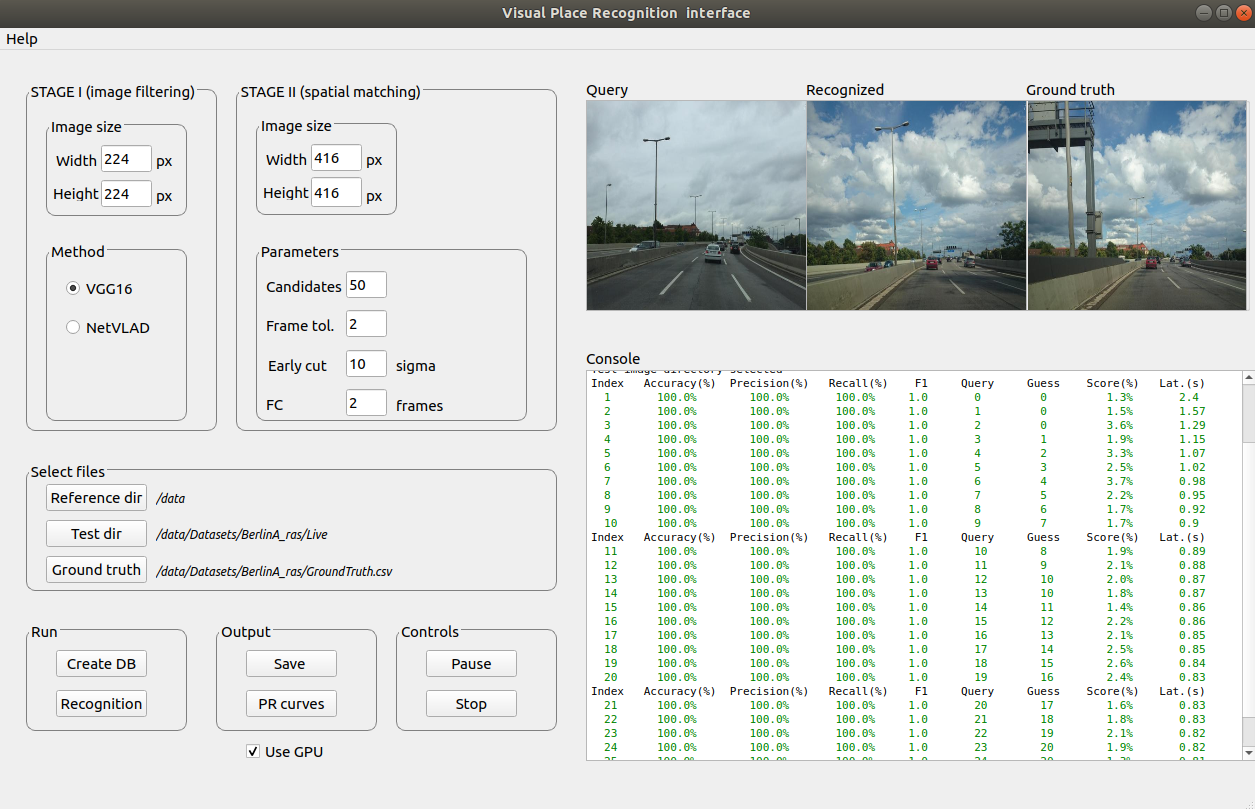
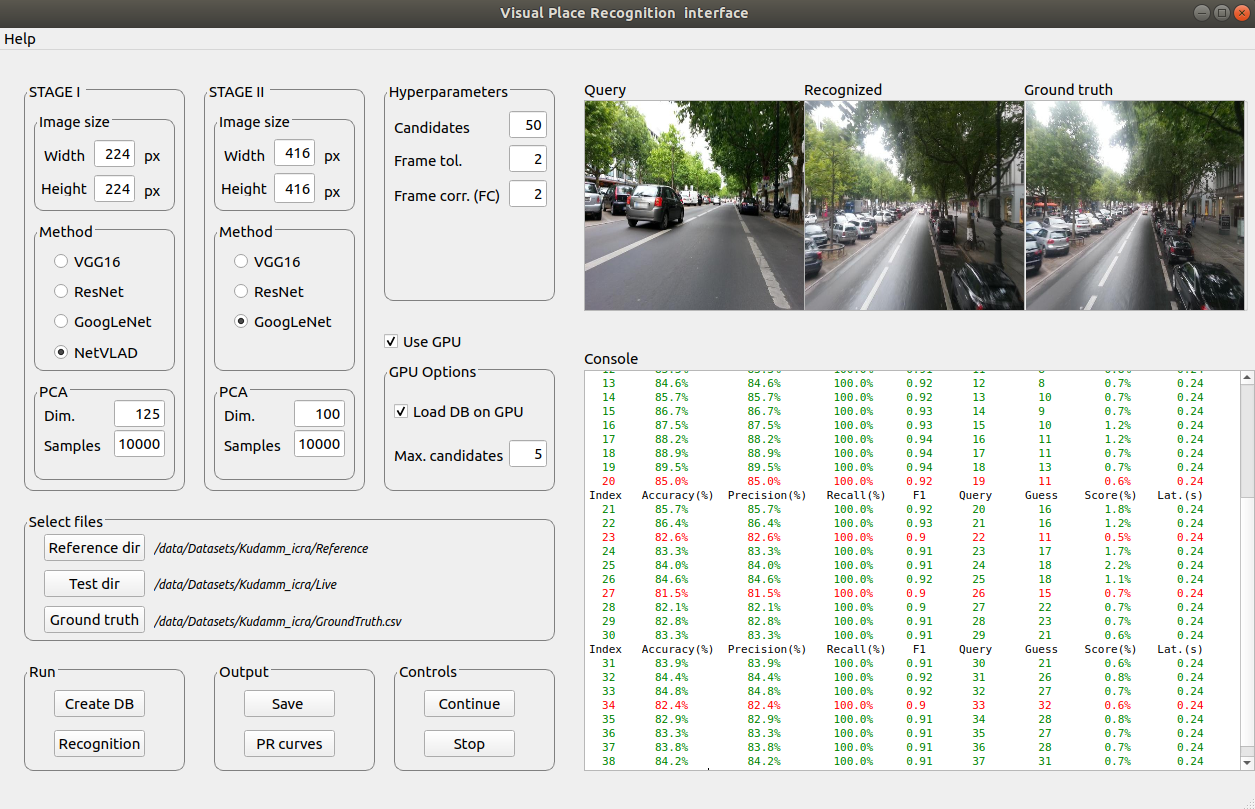
Slight appearance change to GUI

diff --git a/ssmbase.py b/ssmbase.py
@@ -464,7 +464,7 @@ class Ui_MainWindow(object):
         self.btnPRcurves.setGeometry(QtCore.QRect(30, 70, 91, 27))
         self.btnPRcurves.setObjectName("btnPRcurves")
         self.groupBox_12 = QtWidgets.QGroupBox(self.centralwidget)
-        self.groupBox_12.setGeometry(QtCore.QRect(390, 30, 171, 151))
+        self.groupBox_12.setGeometry(QtCore.QRect(390, 30, 171, 221))
         self.groupBox_12.setStyleSheet("QGroupBox {\n"
 "    border: 1px solid gray;\n"
 "    border-radius: 9px;\n"
@@ -501,7 +501,7 @@ class Ui_MainWindow(object):
         self.label_5.setText("Frame corr. (FC)")
         self.label_5.setObjectName("label_5")
         self.gpuGroupBox = QtWidgets.QGroupBox(self.centralwidget)
-        self.gpuGroupBox.setGeometry(QtCore.QRect(390, 280, 171, 161))
+        self.gpuGroupBox.setGeometry(QtCore.QRect(390, 310, 171, 131))
         self.gpuGroupBox.setStyleSheet("QGroupBox {\n"
 "    border: 1px solid gray;\n"
 "    border-radius: 9px;\n"
@@ -527,7 +527,7 @@ class Ui_MainWindow(object):
         self.loadDbOnGpuCheckBox.setGeometry(QtCore.QRect(10, 40, 141, 22))
         self.loadDbOnGpuCheckBox.setObjectName("loadDbOnGpuCheckBox")
         self.useGpuCheckBox = QtWidgets.QCheckBox(self.centralwidget)
-        self.useGpuCheckBox.setGeometry(QtCore.QRect(390, 250, 96, 22))
+        self.useGpuCheckBox.setGeometry(QtCore.QRect(390, 280, 96, 22))
         self.useGpuCheckBox.setObjectName("useGpuCheckBox")
         MainWindow.setCentralWidget(self.centralwidget)
         self.statusbar = QtWidgets.QStatusBar(MainWindow)
